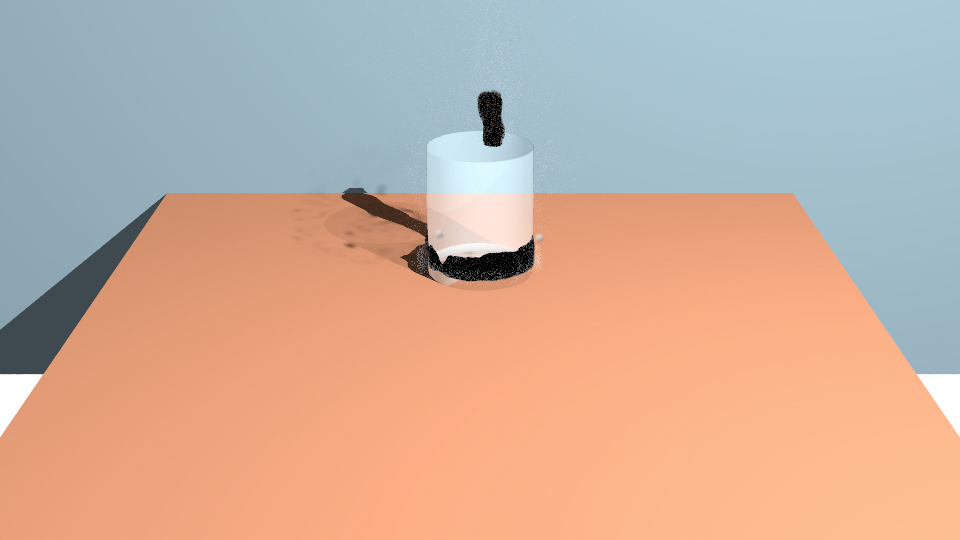
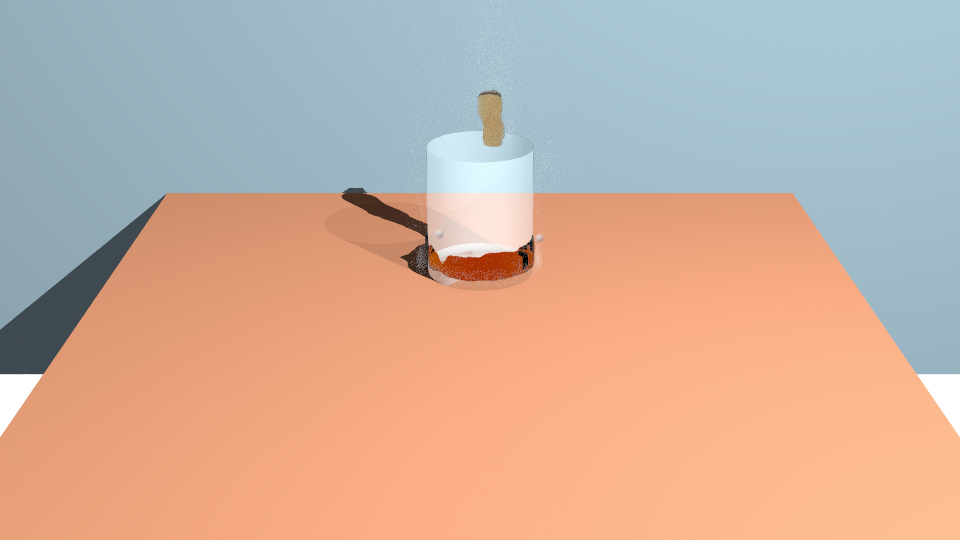
Record settled Hot pour finish evidence

diff --git a/docs/FLUIDS_SPIKE.md b/docs/FLUIDS_SPIKE.md
@@ -1573,7 +1573,7 @@ For the holdout check, a 96 × 54 CPU frame-120 render compared the 32 center pi
 
 A separate 8/32/128-sample sweep was captured before correcting the offset second cup: at frames 60 and 90, 8 samples took 108.95 and 103.59 seconds; 32 took 191.16 and 190.40 seconds; 128 took 726.40 and 704.59 seconds. Those timings describe the earlier two-cup composition. Corrected 32-sample timings above are the measurements for the replacement stills. The full corrected 8/32/128 timing matrix is incomplete. Results are in `benchmarks/hot_pour/hot-pour-shot-2026-10-14.json`.
 
-**48 GB RTX A6000 estimate (unmeasured):** its four-times-larger memory may allow a 128-cell grid and 32-sample 960 × 540 stills to stay in memory. Scaling the measured 64-cell bake by the 8× voxel count suggests roughly 4 minutes 40 seconds for the same 120 frames, still under the 20-minute budget. This is a capacity and workload estimate; mesh cost and peak GPU memory have not been measured. The A6000 is the same Ampere generation, so this estimate assumes no faster solver steps.
+**48 GB RTX A6000 estimate (unmeasured):** the 48 GB card has four times the RTX 3080 Ti's 12 GB, so a 128-cell cache and higher-sample stills may fit where the 12 GB card needs the 32-cell showcase. The older estimate scales the measured 64-cell bake by its 8× voxel count to about 4 minutes 40 seconds for 120 frames. This remains a capacity/workload extrapolation: no A6000 memory peak, bake or render was measured, and no speedup over the same-generation RTX 3080 Ti is claimed. The current 12 GB render evidence is 35.55 seconds for fixed 32-sample quality at 960 × 540 and 45.46 seconds to a noise-settled 1920 × 1080 image with steam cast shadows off; those timings are not A6000 measurements.
 
 **What still looks wrong:** steam remains sparse and speckled rather than a soft column; the stream's top looks like a rounded blob; the liquid pool is hard to read through the pale glass; the tabletop shadow has a hard edge. These are visual observations from the three replacement stills.
 
@@ -1638,13 +1638,13 @@ meshes; already-convex meshes can use their supplied triangles beyond that size.
 
 **RTX 3080 Ti, 64-cell frame-60 shot, 960 × 540, four-bounce cap:** fixed 32-sample render wall time fell from **200.38 s** (16 volume shadow steps) to **22.74 s** (one volume shadow step). The path-tracer GPU call itself was 1.17 s before and 1.22 s after; the wall-time win is in the CPU-side scene/holdout/shadow work. Removing steam reduced the optimized wall time to 8.08 s; removing holdout/catcher reduced it to 1.45 s. These are isolated ablations, not additive costs. The one-step optimized traversal counted 3,095,469 trilinear sample points (the baseline was not instrumented with this counter). This is a large speedup, with an image-quality tradeoff: the one-step shadows are coarser.
 
-The showcase preset now uses adaptive 8–32 sampling, noise threshold 0.01, and a two-bounce transmission cap. On the optimized frame-60 1080p run, 8.38 mean samples/pixel and 29 passes took **83.51 s** wall time; 99.40% of pixels met the noise threshold at the 64-sample profiling cap. The remaining pixels did not converge, so this does not establish a fully settled 1080p image under a strict all-pixels criterion. The planned showcase stills use a 32-sample cap and render in 22.5–23.4 s each.
+The showcase disables steam cast shadows (the steam volume remains visible) and uses four transmission bounces; this avoids the coarse one-step steam-shadow estimate that made the liquid nearly black. Fixed 32-sample quality at 960 × 540 took **35.55 s** on the RTX 3080 Ti. The Render-mode 1920 × 1080 frame used adaptive 8–2,048 sampling at the Rendering threshold of 0.01; it took **45.46 s**, used 11.71 mean samples per pixel (maximum 1,560), and all pixels converged (maximum estimated noise 0.009999989). The three replacement stills use adaptive 16–64 sampling at the same threshold and took **14.95 s**, **15.33 s** and **15.68 s** for frames 60, 90 and 120.
 
-The three frame-60 CPU/GPU comparisons passed on NVIDIA at frames 1, 60, and 120 (mean absolute error 7.1e-9, 1.01e-4, and 5.1e-5). Adaptive-sampling and volume-majorant GPU test modules passed 12/12 on NVIDIA and 12/12 on the integrated AMD Radeon 8060S; llvmpipe also passed 12/12. The integrated 64-cell/120-frame preview baked in 29.7 s, played at 126.89 FPS cold and 134.31 FPS warm, and returned to full detail in 13.4 ms. The measured preview is a 64-cell proxy, not production resolution.
+CPU/GPU comparisons passed at frames 1, 60 and 120 on the RTX 3080 Ti and AMD Radeon 8060S. NVIDIA mean absolute errors were 7.03e-9, 1.01e-4 and 5.06e-5; Radeon errors were 7.56e-9, 9.85e-5 and 7.26e-5. Adaptive-sampling and volume-majorant GPU test modules passed on both adapters; llvmpipe checks also passed in the prior Step B validation. The integrated 64-cell/120-frame proxy preview measured earlier baked in 29.7 s, played at 126.89 FPS cold and 134.31 FPS warm, and returned to full detail in 13.4 ms; preview code and settings are unchanged by this finish pass.
 
-**Visual review:** the new stills remain visibly grainy and the stream reads weakly; do not treat them as final-quality art. Baseline stills are retained alongside the new evidence for direct comparison. The 48 GB RTX A6000 capacity estimate above remains unmeasured.
+**Visual review:** the new frames show a golden liquid column entering the centered open cup, and the more accurate transmission setting restores liquid color. In this view the stream reads as a pour. The steam remains faint, the cup/pool still has sampling speckle, and the tabletop point-light shadow remains hard-edged. Steam cast shadows are disabled for this preset; the geometry shadow and visible steam remain. The A6000 estimate above is still unmeasured, and this Linux machine cannot verify Windows rendering.
 
-| Frame | Prior baseline | One-step shadow + adaptive settings |
+| Frame | Prior baseline | No steam cast shadows, 4 transmission bounces, adaptive 16–64 |
 | ---: | --- | --- |
 | 60 | ![Baseline frame 60](images/hot_pour_shot/baseline/hot-pour-060.png) | ![Updated frame 60](images/hot_pour_shot/hot-pour-060.png) |
 | 90 | ![Baseline frame 90](images/hot_pour_shot/baseline/hot-pour-090.png) | ![Updated frame 90](images/hot_pour_shot/hot-pour-090.png) |

diff --git a/nodebased/data/docs/FLUIDS_SPIKE.md b/nodebased/data/docs/FLUIDS_SPIKE.md
@@ -1573,7 +1573,7 @@ For the holdout check, a 96 × 54 CPU frame-120 render compared the 32 center pi
 
 A separate 8/32/128-sample sweep was captured before correcting the offset second cup: at frames 60 and 90, 8 samples took 108.95 and 103.59 seconds; 32 took 191.16 and 190.40 seconds; 128 took 726.40 and 704.59 seconds. Those timings describe the earlier two-cup composition. Corrected 32-sample timings above are the measurements for the replacement stills. The full corrected 8/32/128 timing matrix is incomplete. Results are in `benchmarks/hot_pour/hot-pour-shot-2026-10-14.json`.
 
-**48 GB RTX A6000 estimate (unmeasured):** its four-times-larger memory may allow a 128-cell grid and 32-sample 960 × 540 stills to stay in memory. Scaling the measured 64-cell bake by the 8× voxel count suggests roughly 4 minutes 40 seconds for the same 120 frames, still under the 20-minute budget. This is a capacity and workload estimate; mesh cost and peak GPU memory have not been measured. The A6000 is the same Ampere generation, so this estimate assumes no faster solver steps.
+**48 GB RTX A6000 estimate (unmeasured):** the 48 GB card has four times the RTX 3080 Ti's 12 GB, so a 128-cell cache and higher-sample stills may fit where the 12 GB card needs the 32-cell showcase. The older estimate scales the measured 64-cell bake by its 8× voxel count to about 4 minutes 40 seconds for 120 frames. This remains a capacity/workload extrapolation: no A6000 memory peak, bake or render was measured, and no speedup over the same-generation RTX 3080 Ti is claimed. The current 12 GB render evidence is 35.55 seconds for fixed 32-sample quality at 960 × 540 and 45.46 seconds to a noise-settled 1920 × 1080 image with steam cast shadows off; those timings are not A6000 measurements.
 
 **What still looks wrong:** steam remains sparse and speckled rather than a soft column; the stream's top looks like a rounded blob; the liquid pool is hard to read through the pale glass; the tabletop shadow has a hard edge. These are visual observations from the three replacement stills.
 
@@ -1638,13 +1638,13 @@ meshes; already-convex meshes can use their supplied triangles beyond that size.
 
 **RTX 3080 Ti, 64-cell frame-60 shot, 960 × 540, four-bounce cap:** fixed 32-sample render wall time fell from **200.38 s** (16 volume shadow steps) to **22.74 s** (one volume shadow step). The path-tracer GPU call itself was 1.17 s before and 1.22 s after; the wall-time win is in the CPU-side scene/holdout/shadow work. Removing steam reduced the optimized wall time to 8.08 s; removing holdout/catcher reduced it to 1.45 s. These are isolated ablations, not additive costs. The one-step optimized traversal counted 3,095,469 trilinear sample points (the baseline was not instrumented with this counter). This is a large speedup, with an image-quality tradeoff: the one-step shadows are coarser.
 
-The showcase preset now uses adaptive 8–32 sampling, noise threshold 0.01, and a two-bounce transmission cap. On the optimized frame-60 1080p run, 8.38 mean samples/pixel and 29 passes took **83.51 s** wall time; 99.40% of pixels met the noise threshold at the 64-sample profiling cap. The remaining pixels did not converge, so this does not establish a fully settled 1080p image under a strict all-pixels criterion. The planned showcase stills use a 32-sample cap and render in 22.5–23.4 s each.
+The showcase disables steam cast shadows (the steam volume remains visible) and uses four transmission bounces; this avoids the coarse one-step steam-shadow estimate that made the liquid nearly black. Fixed 32-sample quality at 960 × 540 took **35.55 s** on the RTX 3080 Ti. The Render-mode 1920 × 1080 frame used adaptive 8–2,048 sampling at the Rendering threshold of 0.01; it took **45.46 s**, used 11.71 mean samples per pixel (maximum 1,560), and all pixels converged (maximum estimated noise 0.009999989). The three replacement stills use adaptive 16–64 sampling at the same threshold and took **14.95 s**, **15.33 s** and **15.68 s** for frames 60, 90 and 120.
 
-The three frame-60 CPU/GPU comparisons passed on NVIDIA at frames 1, 60, and 120 (mean absolute error 7.1e-9, 1.01e-4, and 5.1e-5). Adaptive-sampling and volume-majorant GPU test modules passed 12/12 on NVIDIA and 12/12 on the integrated AMD Radeon 8060S; llvmpipe also passed 12/12. The integrated 64-cell/120-frame preview baked in 29.7 s, played at 126.89 FPS cold and 134.31 FPS warm, and returned to full detail in 13.4 ms. The measured preview is a 64-cell proxy, not production resolution.
+CPU/GPU comparisons passed at frames 1, 60 and 120 on the RTX 3080 Ti and AMD Radeon 8060S. NVIDIA mean absolute errors were 7.03e-9, 1.01e-4 and 5.06e-5; Radeon errors were 7.56e-9, 9.85e-5 and 7.26e-5. Adaptive-sampling and volume-majorant GPU test modules passed on both adapters; llvmpipe checks also passed in the prior Step B validation. The integrated 64-cell/120-frame proxy preview measured earlier baked in 29.7 s, played at 126.89 FPS cold and 134.31 FPS warm, and returned to full detail in 13.4 ms; preview code and settings are unchanged by this finish pass.
 
-**Visual review:** the new stills remain visibly grainy and the stream reads weakly; do not treat them as final-quality art. Baseline stills are retained alongside the new evidence for direct comparison. The 48 GB RTX A6000 capacity estimate above remains unmeasured.
+**Visual review:** the new frames show a golden liquid column entering the centered open cup, and the more accurate transmission setting restores liquid color. In this view the stream reads as a pour. The steam remains faint, the cup/pool still has sampling speckle, and the tabletop point-light shadow remains hard-edged. Steam cast shadows are disabled for this preset; the geometry shadow and visible steam remain. The A6000 estimate above is still unmeasured, and this Linux machine cannot verify Windows rendering.
 
-| Frame | Prior baseline | One-step shadow + adaptive settings |
+| Frame | Prior baseline | No steam cast shadows, 4 transmission bounces, adaptive 16–64 |
 | ---: | --- | --- |
 | 60 | ![Baseline frame 60](images/hot_pour_shot/baseline/hot-pour-060.png) | ![Updated frame 60](images/hot_pour_shot/hot-pour-060.png) |
 | 90 | ![Baseline frame 90](images/hot_pour_shot/baseline/hot-pour-090.png) | ![Updated frame 90](images/hot_pour_shot/hot-pour-090.png) |

diff --git a/STATUS.md b/STATUS.md
@@ -1,6 +1,6 @@
-# Lane 6 finish 1 — in progress (2026-10-22, 3:20 AM PDT)
+# Lane 6 finish 1 — local gates complete; external hardware QA unavailable (2026-10-22, 4:15 AM PDT)
 
-The merged step B's left-outs are under rework. GPU evidence so far: at frame 60, 960 × 540 fixed 32, zero steam shadow density plus four transmission bounces rendered at 35.55 s for fixed-32 quality and restored the liquid to a golden/translucent appearance. The 1080p adaptive run at cap 2,048 took 45.46 s and converged every pixel under the 0.01 threshold (maximum noise 0.00999999). Targeted Hot pour tests pass (2). The 1080p convergence run is queued behind the shared GPU lock. `examples/hot_pour_shot` now uses the probe settings; final 16–64 adaptive three-frame still evidence and adapter logs pending. See `scratch/nb-lanes/run/profile-L6-finish1-settled.log` when it completes.
+RTX 3080 Ti: fixed 32-sample 960 × 540 frame 60 took 35.55 s. Adaptive 1920 × 1080 Render mode at threshold 0.01 converged every pixel in 45.46 s (adaptive cap 2,048; mean 11.71 samples/pixel). The showcase now disables steam cast shadows and uses four transmission bounces; 16–64 adaptive still renders took 14.95–15.68 s. CPU/GPU comparisons passed at frames 1/60/120 on NVIDIA and AMD Radeon 8060S; adaptive/majorant tests passed under NVIDIA and forced-integrated invocations. Visual review: golden stream reads as a pour; cup/pool still has speckle and the table shadow remains hard-edged. A6000 and Windows runs remain unverified. Evidence is in `benchmarks/hot_pour/hot-pour-render-profile-2026-10-22.json` and `benchmarks/hot_pour/hot-pour-shot-2026-10-22.json`; output logs in the lane run folder.
 
 # Lane 6 step B — PARTIAL (2026-10-22)
 
